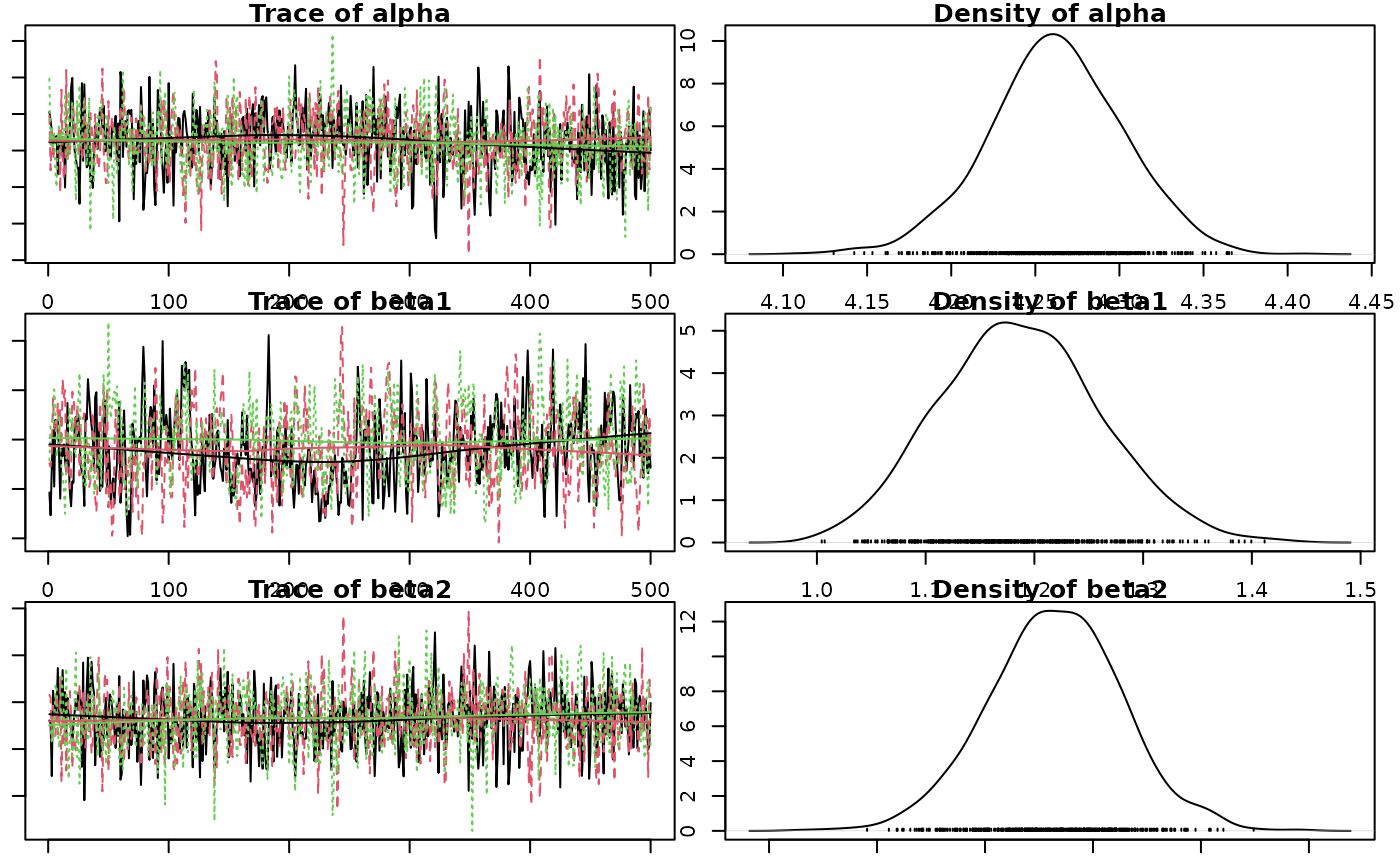
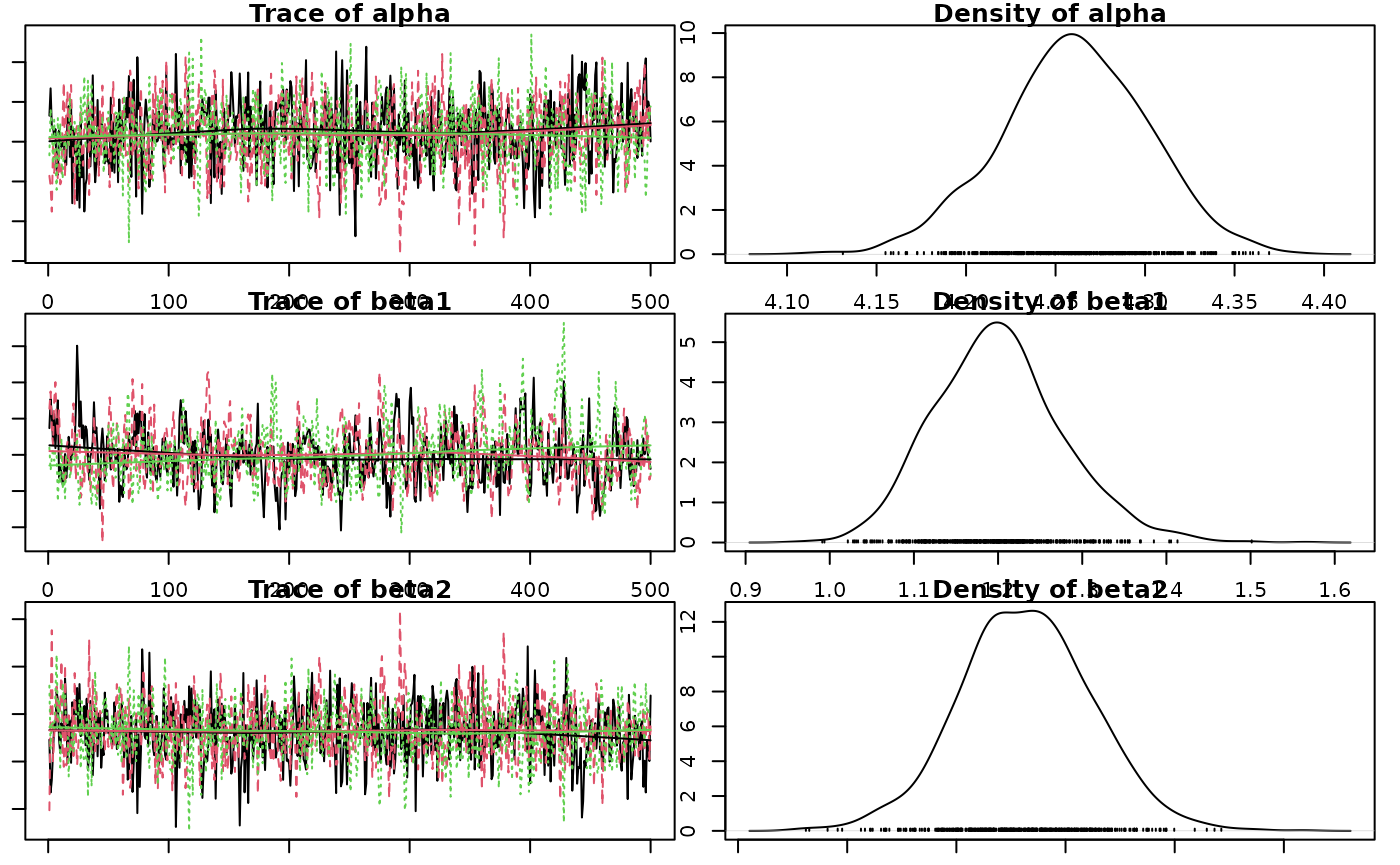
Built site for jmbr@0.0.0.9124: 9a15287

diff --git a/articles/jmbr.html b/articles/jmbr.html
@@ -300,14 +300,14 @@ value and discarding all other values.</p>
 <span><span class="co">#&gt; <span style="color: #949494;"># A tibble: 1 × 8</span></span></span>
 <span><span class="co">#&gt;       n     K nchains niters nthin   ess  rhat converged</span></span>
 <span><span class="co">#&gt;   <span style="color: #949494; font-style: italic;">&lt;int&gt;</span> <span style="color: #949494; font-style: italic;">&lt;int&gt;</span>   <span style="color: #949494; font-style: italic;">&lt;int&gt;</span>  <span style="color: #949494; font-style: italic;">&lt;int&gt;</span> <span style="color: #949494; font-style: italic;">&lt;int&gt;</span> <span style="color: #949494; font-style: italic;">&lt;int&gt;</span> <span style="color: #949494; font-style: italic;">&lt;dbl&gt;</span> <span style="color: #949494; font-style: italic;">&lt;lgl&gt;</span>    </span></span>
-<span><span class="co">#&gt; <span style="color: #BCBCBC;">1</span>    40     6       3    500    10   190  2.49 FALSE</span></span>
+<span><span class="co">#&gt; <span style="color: #BCBCBC;">1</span>    40     6       3    500    10   236  1.32 FALSE</span></span>
 <span><span class="co">#&gt; Warning in value[[3L]](cond): beep() could not play the sound due to the following error:</span></span>
 <span><span class="co">#&gt; Error in play.default(x, rate, ...): no audio drivers are available</span></span>
 <span><span class="va">analysis</span> <span class="op">&lt;-</span> <span class="fu"><a href="https://rdrr.io/pkg/embr/man/reanalyse.html" class="external-link">reanalyse</a></span><span class="op">(</span><span class="va">analysis</span><span class="op">)</span></span>
 <span><span class="co">#&gt; <span style="color: #949494;"># A tibble: 1 × 8</span></span></span>
 <span><span class="co">#&gt;       n     K nchains niters nthin   ess  rhat converged</span></span>
 <span><span class="co">#&gt;   <span style="color: #949494; font-style: italic;">&lt;int&gt;</span> <span style="color: #949494; font-style: italic;">&lt;int&gt;</span>   <span style="color: #949494; font-style: italic;">&lt;int&gt;</span>  <span style="color: #949494; font-style: italic;">&lt;int&gt;</span> <span style="color: #949494; font-style: italic;">&lt;int&gt;</span> <span style="color: #949494; font-style: italic;">&lt;int&gt;</span> <span style="color: #949494; font-style: italic;">&lt;dbl&gt;</span> <span style="color: #949494; font-style: italic;">&lt;lgl&gt;</span>    </span></span>
-<span><span class="co">#&gt; <span style="color: #BCBCBC;">1</span>    40     6       3    500    20   435  1.11 FALSE</span></span>
+<span><span class="co">#&gt; <span style="color: #BCBCBC;">1</span>    40     6       3    500    20   458  1.01 TRUE</span></span>
 <span><span class="co">#&gt; Warning in value[[3L]](cond): beep() could not play the sound due to the following error:</span></span>
 <span><span class="co">#&gt; Error in play.default(x, rate, ...): no audio drivers are available</span></span></code></pre></div>
 <p><strong>Analysis Table:</strong></p>
@@ -355,28 +355,28 @@ between- and within-chain estimates for model parameters.
 <span><span class="co">#&gt; <span style="color: #555555;">Call `lifecycle::last_lifecycle_warnings()` to see where this warning was</span></span></span>
 <span><span class="co">#&gt; <span style="color: #555555;">generated.</span></span></span>
 <span><span class="co">#&gt; <span style="color: #949494;"># A tibble: 6 × 7</span></span></span>
-<span><span class="co">#&gt;   term        estimate     sd  zscore    lower   upper   pvalue</span></span>
-<span><span class="co">#&gt;   <span style="color: #949494; font-style: italic;">&lt;term&gt;</span>         <span style="color: #949494; font-style: italic;">&lt;dbl&gt;</span>  <span style="color: #949494; font-style: italic;">&lt;dbl&gt;</span>   <span style="color: #949494; font-style: italic;">&lt;dbl&gt;</span>    <span style="color: #949494; font-style: italic;">&lt;dbl&gt;</span>   <span style="color: #949494; font-style: italic;">&lt;dbl&gt;</span>    <span style="color: #949494; font-style: italic;">&lt;dbl&gt;</span></span></span>
-<span><span class="co">#&gt; <span style="color: #BCBCBC;">1</span> alpha         4.26   0.040<span style="text-decoration: underline;">3</span> 106.     4.18     4.34   0.000<span style="text-decoration: underline;">666</span></span></span>
-<span><span class="co">#&gt; <span style="color: #BCBCBC;">2</span> beta1         1.18   0.073<span style="text-decoration: underline;">6</span>  16.1    1.05     1.34   0.000<span style="text-decoration: underline;">666</span></span></span>
-<span><span class="co">#&gt; <span style="color: #BCBCBC;">3</span> beta2        -<span style="color: #BB0000;">0.017</span><span style="color: #BB0000; text-decoration: underline;">1</span> 0.030<span style="text-decoration: underline;">9</span>  -<span style="color: #BB0000;">0.570</span> -<span style="color: #BB0000;">0.079</span><span style="color: #BB0000; text-decoration: underline;">3</span>   0.044<span style="text-decoration: underline;">6</span> 0.554   </span></span>
-<span><span class="co">#&gt; <span style="color: #BCBCBC;">4</span> beta3        -<span style="color: #BB0000;">0.268</span>  0.037<span style="text-decoration: underline;">5</span>  -<span style="color: #BB0000;">7.18</span>  -<span style="color: #BB0000;">0.348</span>   -<span style="color: #BB0000;">0.199</span>  0.000<span style="text-decoration: underline;">666</span></span></span>
-<span><span class="co">#&gt; <span style="color: #BCBCBC;">5</span> log_sAnnual  -<span style="color: #BB0000;">2.24</span>   0.715   -<span style="color: #BB0000;">3.33</span>  -<span style="color: #BB0000;">5.40</span>    -<span style="color: #BB0000;">1.76</span>   0.000<span style="text-decoration: underline;">666</span></span></span>
-<span><span class="co">#&gt; <span style="color: #BCBCBC;">6</span> sAnnual       0.107  0.036<span style="text-decoration: underline;">0</span>   2.93   0.004<span style="text-decoration: underline;">50</span>  0.171  0.000<span style="text-decoration: underline;">666</span></span></span></code></pre></div>
+<span><span class="co">#&gt;   term        estimate     sd  zscore   lower   upper   pvalue</span></span>
+<span><span class="co">#&gt;   <span style="color: #949494; font-style: italic;">&lt;term&gt;</span>         <span style="color: #949494; font-style: italic;">&lt;dbl&gt;</span>  <span style="color: #949494; font-style: italic;">&lt;dbl&gt;</span>   <span style="color: #949494; font-style: italic;">&lt;dbl&gt;</span>   <span style="color: #949494; font-style: italic;">&lt;dbl&gt;</span>   <span style="color: #949494; font-style: italic;">&lt;dbl&gt;</span>    <span style="color: #949494; font-style: italic;">&lt;dbl&gt;</span></span></span>
+<span><span class="co">#&gt; <span style="color: #BCBCBC;">1</span> alpha         4.26   0.041<span style="text-decoration: underline;">1</span> 104.     4.18    4.34   0.000<span style="text-decoration: underline;">666</span></span></span>
+<span><span class="co">#&gt; <span style="color: #BCBCBC;">2</span> beta1         1.20   0.077<span style="text-decoration: underline;">0</span>  15.6    1.06    1.36   0.000<span style="text-decoration: underline;">666</span></span></span>
+<span><span class="co">#&gt; <span style="color: #BCBCBC;">3</span> beta2        -<span style="color: #BB0000;">0.018</span><span style="color: #BB0000; text-decoration: underline;">4</span> 0.030<span style="text-decoration: underline;">5</span>  -<span style="color: #BB0000;">0.594</span> -<span style="color: #BB0000;">0.080</span><span style="color: #BB0000; text-decoration: underline;">4</span>  0.042<span style="text-decoration: underline;">8</span> 0.540   </span></span>
+<span><span class="co">#&gt; <span style="color: #BCBCBC;">4</span> beta3        -<span style="color: #BB0000;">0.274</span>  0.039<span style="text-decoration: underline;">0</span>  -<span style="color: #BB0000;">7.07</span>  -<span style="color: #BB0000;">0.357</span>  -<span style="color: #BB0000;">0.204</span>  0.000<span style="text-decoration: underline;">666</span></span></span>
+<span><span class="co">#&gt; <span style="color: #BCBCBC;">5</span> log_sAnnual  -<span style="color: #BB0000;">2.23</span>   0.325   -<span style="color: #BB0000;">6.99</span>  -<span style="color: #BB0000;">3.04</span>   -<span style="color: #BB0000;">1.74</span>   0.000<span style="text-decoration: underline;">666</span></span></span>
+<span><span class="co">#&gt; <span style="color: #BCBCBC;">6</span> sAnnual       0.107  0.031<span style="text-decoration: underline;">5</span>   3.44   0.047<span style="text-decoration: underline;">7</span>  0.176  0.000<span style="text-decoration: underline;">666</span></span></span></code></pre></div>
 <p>The estimate is the <strong>median</strong> by default.</p>
 <p>The zscore is
 <math display="inline" xmlns="http://www.w3.org/1998/Math/MathML"><semantics><mrow><mi>m</mi><mi>e</mi><mi>a</mi><mi>n</mi><mi>/</mi><mi>s</mi><mi>d</mi></mrow><annotation encoding="application/x-tex">mean / sd</annotation></semantics></math>.</p>
 <div class="sourceCode" id="cb12"><pre class="downlit sourceCode r">
 <code class="sourceCode R"><span><span class="fu"><a href="https://rdrr.io/r/stats/coef.html" class="external-link">coef</a></span><span class="op">(</span><span class="va">analysis</span>, simplify <span class="op">=</span> <span class="cn">TRUE</span><span class="op">)</span></span>
 <span><span class="co">#&gt; <span style="color: #949494;"># A tibble: 6 × 5</span></span></span>
-<span><span class="co">#&gt;   term        estimate    lower   upper svalue</span></span>
-<span><span class="co">#&gt;   <span style="color: #949494; font-style: italic;">&lt;term&gt;</span>         <span style="color: #949494; font-style: italic;">&lt;dbl&gt;</span>    <span style="color: #949494; font-style: italic;">&lt;dbl&gt;</span>   <span style="color: #949494; font-style: italic;">&lt;dbl&gt;</span>  <span style="color: #949494; font-style: italic;">&lt;dbl&gt;</span></span></span>
-<span><span class="co">#&gt; <span style="color: #BCBCBC;">1</span> alpha         4.26    4.18     4.34   10.6  </span></span>
-<span><span class="co">#&gt; <span style="color: #BCBCBC;">2</span> beta1         1.18    1.05     1.34   10.6  </span></span>
-<span><span class="co">#&gt; <span style="color: #BCBCBC;">3</span> beta2        -<span style="color: #BB0000;">0.017</span><span style="color: #BB0000; text-decoration: underline;">1</span> -<span style="color: #BB0000;">0.079</span><span style="color: #BB0000; text-decoration: underline;">3</span>   0.044<span style="text-decoration: underline;">6</span>  0.853</span></span>
-<span><span class="co">#&gt; <span style="color: #BCBCBC;">4</span> beta3        -<span style="color: #BB0000;">0.268</span>  -<span style="color: #BB0000;">0.348</span>   -<span style="color: #BB0000;">0.199</span>  10.6  </span></span>
-<span><span class="co">#&gt; <span style="color: #BCBCBC;">5</span> log_sAnnual  -<span style="color: #BB0000;">2.24</span>   -<span style="color: #BB0000;">5.40</span>    -<span style="color: #BB0000;">1.76</span>   10.6  </span></span>
-<span><span class="co">#&gt; <span style="color: #BCBCBC;">6</span> sAnnual       0.107   0.004<span style="text-decoration: underline;">50</span>  0.171  10.6</span></span></code></pre></div>
+<span><span class="co">#&gt;   term        estimate   lower   upper svalue</span></span>
+<span><span class="co">#&gt;   <span style="color: #949494; font-style: italic;">&lt;term&gt;</span>         <span style="color: #949494; font-style: italic;">&lt;dbl&gt;</span>   <span style="color: #949494; font-style: italic;">&lt;dbl&gt;</span>   <span style="color: #949494; font-style: italic;">&lt;dbl&gt;</span>  <span style="color: #949494; font-style: italic;">&lt;dbl&gt;</span></span></span>
+<span><span class="co">#&gt; <span style="color: #BCBCBC;">1</span> alpha         4.26    4.18    4.34   10.6  </span></span>
+<span><span class="co">#&gt; <span style="color: #BCBCBC;">2</span> beta1         1.20    1.06    1.36   10.6  </span></span>
+<span><span class="co">#&gt; <span style="color: #BCBCBC;">3</span> beta2        -<span style="color: #BB0000;">0.018</span><span style="color: #BB0000; text-decoration: underline;">4</span> -<span style="color: #BB0000;">0.080</span><span style="color: #BB0000; text-decoration: underline;">4</span>  0.042<span style="text-decoration: underline;">8</span>  0.888</span></span>
+<span><span class="co">#&gt; <span style="color: #BCBCBC;">4</span> beta3        -<span style="color: #BB0000;">0.274</span>  -<span style="color: #BB0000;">0.357</span>  -<span style="color: #BB0000;">0.204</span>  10.6  </span></span>
+<span><span class="co">#&gt; <span style="color: #BCBCBC;">5</span> log_sAnnual  -<span style="color: #BB0000;">2.23</span>   -<span style="color: #BB0000;">3.04</span>   -<span style="color: #BB0000;">1.74</span>   10.6  </span></span>
+<span><span class="co">#&gt; <span style="color: #BCBCBC;">6</span> sAnnual       0.107   0.047<span style="text-decoration: underline;">7</span>  0.176  10.6</span></span></code></pre></div>
 <p>The s-value is the <strong>suprisal</strong> value, which is a
 measure of directionality with respect to zero.</p>
 <p>The s-value is zero (unsurprising) when <em>p-value</em> = 1.0 and
